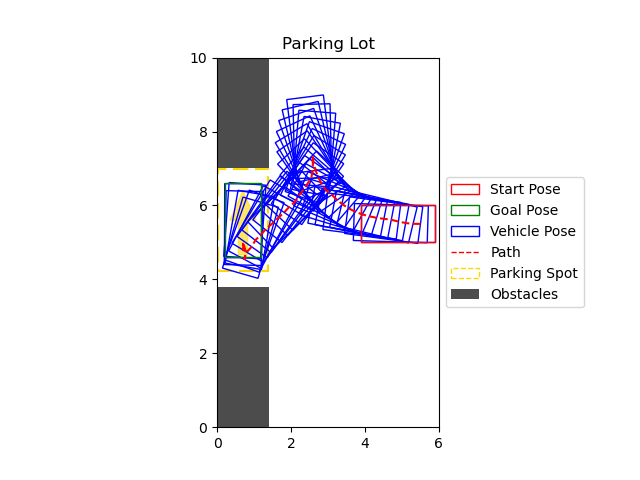
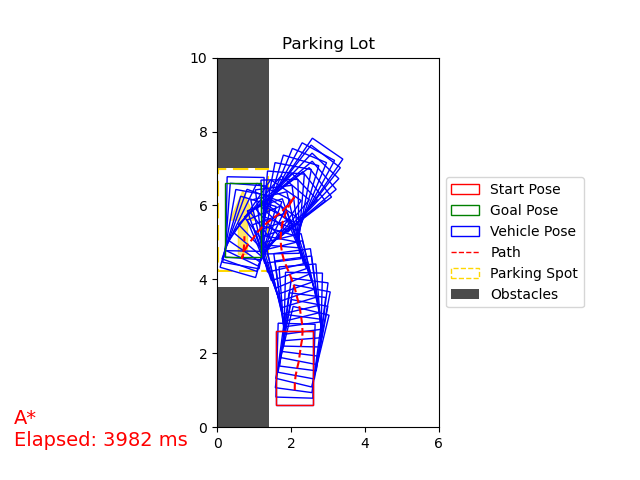
Update README.md

Changed region(s): [[0.3438, 0.1875, 0.6875, 0.875], [0.0, 0.8438, 0.3125, 0.9375]]

diff --git a/README.md b/README.md
@@ -1,7 +1,9 @@
 # Automatic Parking
 
-This project implements an algorithm for automatic parking, 
+This project is for path-planning, 
 specifically designed for four-wheeled vehicles with front-wheel steering.
+A* and RRT* path-finding algorithms are implemented, 
+some modules are written in C++ to improve performance.
 
 ## Simulation Configuration
 
@@ -95,7 +97,7 @@ To use them with the python project, place them into `scripts/models/`.
 
 ## Demos
 
-### Path finding
+### A* Path finding
 
 <p float="left">
 <img src="resources/parking-lot-1.png" width=400>
@@ -110,6 +112,23 @@ To use them with the python project, place them into `scripts/models/`.
 <p float="left">
 <img src="resources/parking-lot-3.png" width=400>
 <img src="resources/parking-lot-3.gif" width=400>
+</p>
+
+### RRT* Path finding (Time Budget $200\ \mathrm{ms}$)
+
+<p float="left">
+<img src="resources/parking-lot-1-rrtstar.png" width=400>
+<img src="resources/parking-lot-1-rrtstar.gif" width=400>
+</p>
+
+<p float="left">
+<img src="resources/parking-lot-2-rrtstar.png" width=400>
+<img src="resources/parking-lot-2-rrtstar.gif" width=400>
+</p>
+
+<p float="left">
+<img src="resources/parking-lot-3-rrtstar.png" width=400>
+<img src="resources/parking-lot-3-rrtstar.gif" width=400>
 </p>
 
 ### Reeds-Shepp curve
